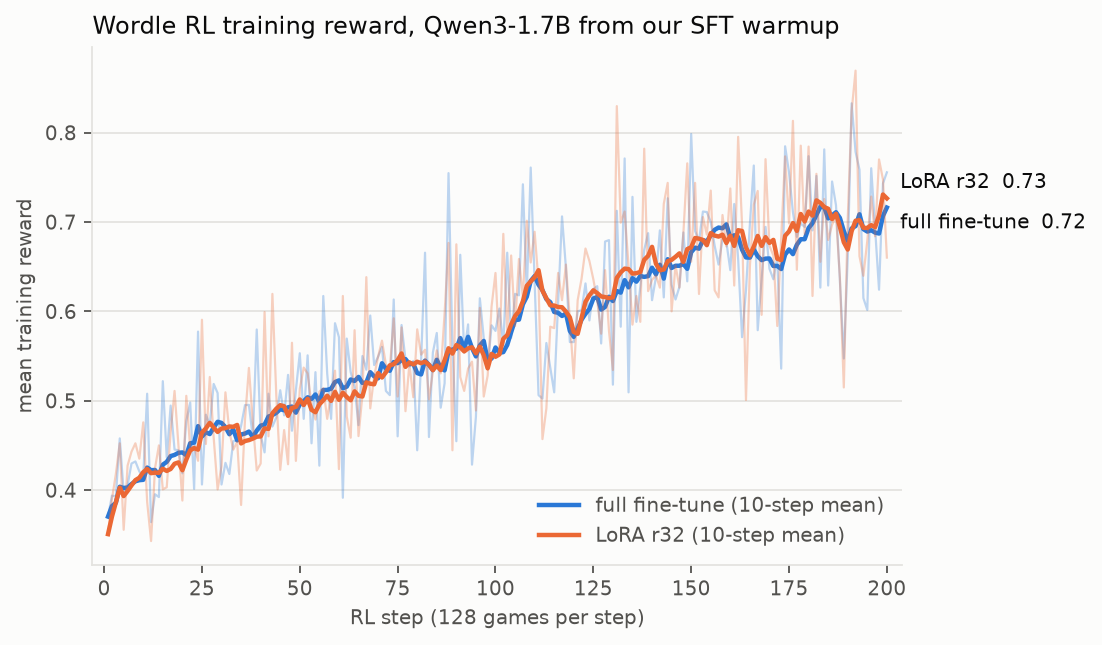
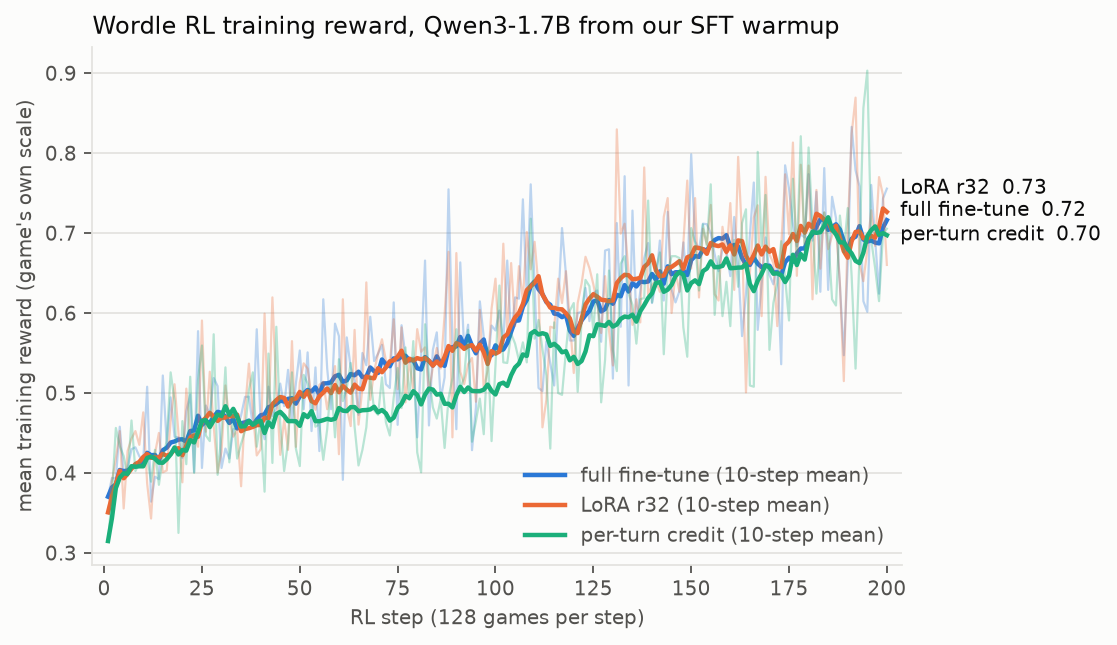
Run 2 results: per-turn credit fixes cut-offs and invalid moves; win rate unchanged
Held-out (thinking removed): 41.5% vs 40.5% baseline; cut-off turns 15% -> 1.4%,
games lost to invalid moves 88 -> 39, but games using all 6 guesses 31 -> 78 and
clue consistency 54% -> 47%. Report, page, plots and README updated.

diff --git a/notes/experiment.html b/notes/experiment.html
@@ -21,6 +21,7 @@
   --bad: #b4442e;
   --s1: #2a78d6;
   --s2: #eb6834;
+  --s3: #1baf7a;
   --chip-done: #e2eee0;
   --chip-run: #f8edc7;
   --chip-wait: #eaecea;
@@ -34,14 +35,14 @@
   :root:not([data-theme="light"]) {
     --paper: #121314; --panel: #1b1d1f; --ink: #eceeee; --ink-2: #b6bbbe; --ink-3: #8f959a; --rule: #2f3235;
     --accent: #84c977; --tile-g: #538d4e; --tile-y: #b59f3b; --tile-x: #3a3a3c; --tile-ink: #ffffff; --tile-line: #3f4245;
-    --bad: #e2806a; --s1: #3987e5; --s2: #d95926; --chip-done: #1f3320; --chip-run: #3a3117; --chip-wait: #26292b;
+    --bad: #e2806a; --s1: #3987e5; --s2: #d95926; --s3: #199e70; --chip-done: #1f3320; --chip-run: #3a3117; --chip-wait: #26292b;
     color-scheme: dark;
   }
 }
 :root[data-theme="dark"] {
   --paper: #121314; --panel: #1b1d1f; --ink: #eceeee; --ink-2: #b6bbbe; --ink-3: #8f959a; --rule: #2f3235;
   --accent: #84c977; --tile-g: #538d4e; --tile-y: #b59f3b; --tile-x: #3a3a3c; --tile-ink: #ffffff; --tile-line: #3f4245;
-  --bad: #e2806a; --s1: #3987e5; --s2: #d95926; --chip-done: #1f3320; --chip-run: #3a3117; --chip-wait: #26292b;
+  --bad: #e2806a; --s1: #3987e5; --s2: #d95926; --s3: #199e70; --chip-done: #1f3320; --chip-run: #3a3117; --chip-wait: #26292b;
   color-scheme: dark;
 }
 
@@ -329,6 +330,8 @@ footer { padding-top: 24px; border-top: 1px solid var(--rule); }
         </table>
       </div>
       <p class="note">With the thinking stripped, a turn whose thought runs past 1,024 tokens yields no move at all. That now shows up as a format error instead of a leaked repeat, and it is the RL models' main remaining failure (about 1 turn in 5).</p>
+      <h3>Run 2: per-turn credit</h3>
+      <p class="prose">A new <code>wordle-turns</code> env scores every turn: information gain, penalties for rejected moves, cut-off turns, thinking past 768 tokens and clue violations, and a win reward scaled by speed. A small prime-rl patch (<code>turn_grpo</code>) gives each turn's tokens their own advantage. It fixed what it targeted: cut-off turns fell from 15% to 1.4%, and games lost to invalid moves from 88 to 39 of 200. The held-out win rate did not move (41.5% vs 40.5%), because the rescued games now run out of guesses. Clue consistency fell from 54% to 47%: the information-gain bonus pays for exploratory guesses that can't be the answer. The next run lowers that bonus, strengthens the clue-violation penalty and adds a clue summary to each turn.</p>
       <h3>Held-out words vs training words</h3>
       <p class="prose">The same example eval on 20 training games, 10 tries each. If the RL models had memorized their words, they would score higher here. They don't, so the gains carry over to new words.</p>
       <div class="scroll">
@@ -416,7 +419,7 @@ make report                           <span class="c"># results/results.md + plo
 </div>
 
 <!--DATA-BEGIN-->
-<script type="application/json" id="data">{"updated":"2026-10-13 19:31 UTC","evals":[{"model":"Qwen3-1.7B (base)","run":"wordle-eval-base","games":200,"win_rate":0.0,"avg_reward":0.1745,"avg_turns":3.33,"turns_to_solve":null,"guesses_to_solve":null,"format_error_rate":0.6186186186186187,"truncated_call_rate":0.6171171171171171,"invalid_end_rate":1.0,"ci":[0.0,0.0],"parsed":{"win_rate":0.0,"avg_reward":0.20600000000000002,"avg_turns":3.72,"guesses_to_solve":null,"format_error_rate":0.4771505376344086,"truncated_call_rate":0.47043010752688175,"ci":[0.0,0.0]}},{"model":"+ SFT warmup","run":"wordle-eval-sft","games":200,"win_rate":0.025,"avg_reward":0.3,"avg_turns":5.11,"turns_to_solve":6.2,"guesses_to_solve":4.2,"format_error_rate":0.13894324853228962,"truncated_call_rate":0.06555772994129158,"invalid_end_rate":0.925,"ci":[0.0,0.06],"parsed":{"win_rate":0.125,"avg_reward":0.402,"avg_turns":5.31,"guesses_to_solve":4.08,"format_error_rate":0.3116760828625235,"truncated_call_rate":0.1318267419962335,"ci":[0.075,0.18]}},{"model":"+ SFT + RL (full)","run":"wordle-eval-rl","games":200,"win_rate":0.15,"avg_reward":0.428,"avg_turns":5.825,"turns_to_solve":6.333333333333333,"guesses_to_solve":4.466666666666667,"format_error_rate":0.0944206008583691,"truncated_call_rate":0.06266094420600858,"invalid_end_rate":0.76,"ci":[0.095,0.2],"parsed":{"win_rate":0.405,"avg_reward":0.662,"avg_turns":5.775,"guesses_to_solve":4.271604938271605,"format_error_rate":0.22510822510822512,"truncated_call_rate":0.1523809523809524,"ci":[0.28,0.53]},"seen":{"win_rate":0.155,"avg_reward":0.46149999999999997,"avg_turns":5.96,"guesses_to_solve":4.387096774193548,"format_error_rate":0.11577181208053691,"truncated_call_rate":0.09144295302013423,"ci":[0.09,0.225]}},{"model":"+ SFT + RL (LoRA r32)","run":"wordle-eval-lora","games":200,"win_rate":0.21,"avg_reward":0.465,"avg_turns":6.02,"turns_to_solve":6.119047619047619,"guesses_to_solve":4.380952380952381,"format_error_rate":0.11046511627906977,"truncated_call_rate":0.08305647840531562,"invalid_end_rate":0.645,"ci":[0.115,0.31],"parsed":{"win_rate":0.425,"avg_reward":0.6475,"avg_turns":5.525,"guesses_to_solve":4.1647058823529415,"format_error_rate":0.22805429864253393,"truncated_call_rate":0.16561085972850678,"ci":[0.3,0.55]},"seen":{"win_rate":0.11,"avg_reward":0.40850000000000003,"avg_turns":5.97,"guesses_to_solve":4.5,"format_error_rate":0.12144053601340034,"truncated_call_rate":0.09380234505862646,"ci":[0.06,0.175]}}],"rl":{"full":{"curve":[[1,0.3703],[2,0.3937],[3,0.393],[4,0.4578],[5,0.3969],[6,0.4055],[7,0.4297],[8,0.432],[9,0.4208],[10,0.4148],[11,0.5078],[12,0.3641],[13,0.3953],[14,0.3922],[15,0.5219],[16,0.4367],[17,0.4945],[18,0.4453],[19,0.4445],[20,0.4188],[21,0.4773],[22,0.4979],[23,0.4014],[24,0.5773],[25,0.4062],[26,0.4844],[27,0.4734],[28,0.5188],[29,0.5086],[30,0.4062],[31,0.4305],[32,0.418],[33,0.4547],[34,0.4555],[35,0.4719],[36,0.4951],[37,0.4953],[38,0.4586],[39,0.5797],[40,0.4618],[41,0.4422],[42,0.5078],[43,0.4711],[44,0.4813],[45,0.5117],[46,0.4836],[47,0.5289],[48,0.4664],[49,0.5117],[50,0.5531],[51,0.4797],[52,0.5508],[53,0.4523],[54,0.5319],[55,0.4273],[56,0.6172],[57,0.5305],[58,0.4797],[59,0.5867],[60,0.5711],[61,0.3914],[62,0.5695],[63,0.532],[64,0.5156],[65,0.4727],[66,0.55],[67,0.5347],[68,0.5953],[69,0.5398],[70,0.5492],[71,0.5602],[72,0.5109],[73,0.5062],[74,0.6133],[75,0.4602],[76,0.5847],[77,0.5461],[78,0.5383],[79,0.5445],[80,0.4445],[81,0.5453],[82,0.6656],[83,0.4594],[84,0.5539],[85,0.5758],[86,0.4922],[87,0.5195],[88,0.7547],[89,0.5617],[90,0.4547],[91,0.6633],[92,0.5539],[93,0.5854],[94,0.4285],[95,0.482],[96,0.6146],[97,0.5701],[98,0.5352],[99,0.5844],[100,0.5781],[101,0.6031],[102,0.5625],[103,0.6656],[104,0.5703],[105,0.6195],[106,0.618],[107,0.7422],[108,0.6203],[109,0.7609],[110,0.632],[111,0.5062],[112,0.5023],[113,0.5646],[114,0.5367],[115,0.5094],[116,0.6094],[117,0.7063],[118,0.6484],[119,0.5656],[120,0.5656],[121,0.6],[122,0.6014],[123,0.6312],[124,0.5898],[125,0.625],[126,0.6281],[127,0.5641],[128,0.6781],[129,0.6797],[130,0.518],[131,0.7125],[132,0.5828],[133,0.7711],[134,0.5094],[135,0.7281],[136,0.5883],[137,0.6273],[138,0.6687],[139,0.6875],[140,0.6125],[141,0.6383],[142,0.6906],[143,0.6156],[144,0.7266],[145,0.6297],[146,0.6133],[147,0.6273],[148,0.6883],[149,0.6336],[150,0.7984],[151,0.6898],[152,0.6789],[153,0.7117],[154,0.7111],[155,0.7],[156,0.6734],[157,0.6523],[158,0.6805],[159,0.6773],[160,0.6461],[161,0.7201],[162,0.6587],[163,0.5711],[164,0.6236],[165,0.6977],[166,0.7632],[167,0.5789],[168,0.6361],[169,0.6945],[170,0.6477],[171,0.6359],[172,0.6602],[173,0.5359],[174,0.7847],[175,0.7556],[176,0.7109],[177,0.6833],[178,0.6984],[179,0.6944],[180,0.7736],[181,0.6906],[182,0.7516],[183,0.6266],[184,0.7812],[185,0.6289],[186,0.7453],[187,0.7188],[188,0.6344],[189,0.5472],[190,0.6609],[191,0.8328],[192,0.7785],[193,0.7586],[194,0.6148],[195,0.6016],[196,0.7602],[197,0.6922],[198,0.6242],[199,0.7431],[200,0.7556]],"steps":200,"hours":3.64},"lora":{"curve":[[1,0.3507],[2,0.3898],[3,0.418],[4,0.4523],[5,0.3556],[6,0.4273],[7,0.443],[8,0.4523],[9,0.4352],[10,0.4758],[11,0.3867],[12,0.343],[13,0.4243],[14,0.45],[15,0.4008],[16,0.4031],[17,0.4648],[18,0.5109],[19,0.45],[20,0.3883],[21,0.5055],[22,0.4469],[23,0.4492],[24,0.4328],[25,0.5906],[26,0.4516],[27,0.5266],[28,0.4586],[29,0.4008],[30,0.4266],[31,0.5094],[32,0.4656],[33,0.4453],[34,0.4539],[35,0.3833],[36,0.4789],[37,0.5367],[38,0.4758],[39,0.4219],[40,0.4297],[41,0.5992],[42,0.4602],[43,0.6195],[44,0.5055],[45,0.4227],[46,0.4672],[47,0.4289],[48,0.5648],[49,0.4326],[50,0.5133],[51,0.5371],[52,0.5305],[53,0.4953],[54,0.4789],[55,0.5102],[56,0.5141],[57,0.4797],[58,0.507],[59,0.5336],[60,0.4234],[61,0.6172],[62,0.482],[63,0.4586],[64,0.5789],[65,0.4604],[66,0.5062],[67,0.6383],[68,0.4914],[69,0.5273],[70,0.5492],[71,0.5672],[72,0.5406],[73,0.5359],[74,0.5922],[75,0.5047],[76,0.582],[77,0.4883],[78,0.5414],[79,0.5039],[80,0.5799],[81,0.5516],[82,0.557],[83,0.5016],[84,0.532],[85,0.5563],[86,0.5306],[87,0.5977],[88,0.6766],[89,0.4445],[90,0.675],[91,0.5266],[92,0.5109],[93,0.5359],[94,0.5437],[95,0.4891],[96,0.6039],[97,0.5047],[98,0.5281],[99,0.6056],[100,0.643],[101,0.5531],[102,0.6867],[103,0.5758],[104,0.6625],[105,0.5836],[106,0.6586],[107,0.6156],[108,0.7014],[109,0.6547],[110,0.6891],[111,0.6328],[112,0.457],[113,0.4914],[114,0.5828],[115,0.5813],[116,0.643],[117,0.6125],[118,0.6523],[119,0.5906],[120,0.525],[121,0.6125],[122,0.6367],[123,0.6703],[124,0.6562],[125,0.6359],[126,0.6117],[127,0.575],[128,0.6461],[129,0.5781],[130,0.5344],[131,0.8297],[132,0.6992],[133,0.7117],[134,0.6508],[135,0.5852],[136,0.6172],[137,0.5883],[138,0.782],[139,0.6227],[140,0.6352],[141,0.6403],[142,0.6266],[143,0.7203],[144,0.7438],[145,0.6],[146,0.6516],[147,0.6266],[148,0.6868],[149,0.7656],[150,0.6555],[151,0.7438],[152,0.6194],[153,0.7055],[154,0.6859],[155,0.7352],[156,0.6236],[157,0.6156],[158,0.7078],[159,0.6727],[160,0.7375],[161,0.6289],[162,0.7953],[163,0.6969],[164,0.5008],[165,0.65],[166,0.7194],[167,0.7347],[168,0.5961],[169,0.7703],[170,0.6734],[171,0.6625],[172,0.5836],[173,0.6826],[174,0.7734],[175,0.6984],[176,0.8132],[177,0.6465],[178,0.7854],[179,0.6867],[180,0.7844],[181,0.6172],[182,0.7539],[183,0.6555],[184,0.7257],[185,0.6799],[186,0.6969],[187,0.707],[188,0.6375],[189,0.5148],[190,0.7031],[191,0.8242],[192,0.8694],[193,0.6617],[194,0.6398],[195,0.6789],[196,0.7285],[197,0.684],[198,0.77],[199,0.7477],[200,0.6602]],"steps":200,"hours":4.7}},"words":{"eval":["brass","brown","cough","death","floor","grain","horse","jewel","light","limit","paper","print","rough","smile","sound","spade","sugar","twist"],"train":["angle","apple","awake","basin","berry","birth","blade","blood","board","brain","brake","bread","brick","brush","burst","cause","chain","chalk","cheap","chest","chief","clean","clock","cloth","cloud","cover","crack","crime","cruel","crush","curve","dirty","doubt","drain","dress","drink","earth","error","event","field","fight","flame","force","frame","front","fruit","glass","glove","grass","group","guide","heart","house","judge","knife","laugh","level","linen","match","metal","money","month","mouth","music","nerve","night","noise","north","offer","order","owner","paint","paste","peace","place","plane","plant","plate","point","power","price","prose","quick","range","right","river","round","scale","screw","sense","shade","shake","shame","sheep","shelf","shirt","shock","skirt","sleep","slope","smash","smell","smoke","snake","south","space","spoon","stage","stamp","start","steam","steel","stick","stiff","stone","store","story","sweet","table","taste","thick","thing","thumb","tight","tooth","touch","trade","train","trick","value","verse","voice","waste","watch","water","wheel","woman","wound"],"excluded_seeds":675,"train_seeds":5325}}</script>
+<script type="application/json" id="data">{"updated":"2026-10-14 05:15 UTC","evals":[{"model":"Qwen3-1.7B (base)","run":"wordle-eval-base","games":200,"win_rate":0.0,"avg_reward":0.1745,"avg_turns":3.33,"turns_to_solve":null,"guesses_to_solve":null,"format_error_rate":0.6186186186186187,"truncated_call_rate":0.6171171171171171,"invalid_end_rate":1.0,"ci":[0.0,0.0],"parsed":{"win_rate":0.0,"avg_reward":0.20600000000000002,"avg_turns":3.72,"guesses_to_solve":null,"format_error_rate":0.4771505376344086,"truncated_call_rate":0.47043010752688175,"ci":[0.0,0.0]}},{"model":"+ SFT warmup","run":"wordle-eval-sft","games":200,"win_rate":0.025,"avg_reward":0.3,"avg_turns":5.11,"turns_to_solve":6.2,"guesses_to_solve":4.2,"format_error_rate":0.13894324853228962,"truncated_call_rate":0.06555772994129158,"invalid_end_rate":0.925,"ci":[0.0,0.06],"parsed":{"win_rate":0.125,"avg_reward":0.402,"avg_turns":5.31,"guesses_to_solve":4.08,"format_error_rate":0.3116760828625235,"truncated_call_rate":0.1318267419962335,"ci":[0.075,0.18]}},{"model":"+ SFT + RL (full)","run":"wordle-eval-rl","games":200,"win_rate":0.15,"avg_reward":0.428,"avg_turns":5.825,"turns_to_solve":6.333333333333333,"guesses_to_solve":4.466666666666667,"format_error_rate":0.0944206008583691,"truncated_call_rate":0.06266094420600858,"invalid_end_rate":0.76,"ci":[0.095,0.2],"parsed":{"win_rate":0.405,"avg_reward":0.662,"avg_turns":5.775,"guesses_to_solve":4.271604938271605,"format_error_rate":0.22510822510822512,"truncated_call_rate":0.1523809523809524,"ci":[0.28,0.53]},"seen":{"win_rate":0.155,"avg_reward":0.46149999999999997,"avg_turns":5.96,"guesses_to_solve":4.387096774193548,"format_error_rate":0.11577181208053691,"truncated_call_rate":0.09144295302013423,"ci":[0.09,0.225]}},{"model":"+ SFT + RL (LoRA r32)","run":"wordle-eval-lora","games":200,"win_rate":0.21,"avg_reward":0.465,"avg_turns":6.02,"turns_to_solve":6.119047619047619,"guesses_to_solve":4.380952380952381,"format_error_rate":0.11046511627906977,"truncated_call_rate":0.08305647840531562,"invalid_end_rate":0.645,"ci":[0.115,0.31],"parsed":{"win_rate":0.425,"avg_reward":0.6475,"avg_turns":5.525,"guesses_to_solve":4.1647058823529415,"format_error_rate":0.22805429864253393,"truncated_call_rate":0.16561085972850678,"ci":[0.3,0.55]},"seen":{"win_rate":0.11,"avg_reward":0.40850000000000003,"avg_turns":5.97,"guesses_to_solve":4.5,"format_error_rate":0.12144053601340034,"truncated_call_rate":0.09380234505862646,"ci":[0.06,0.175]}},{"model":"+ SFT + RL (per-turn credit)","run":"wordle-eval-turns","games":200,"win_rate":0.17,"avg_reward":0.445,"avg_turns":6.955,"turns_to_solve":6.676470588235294,"guesses_to_solve":4.323529411764706,"format_error_rate":0.024442846872753415,"truncated_call_rate":0.0014378145219266715,"invalid_end_rate":0.51,"ci":[0.105,0.235],"parsed":{"win_rate":0.415,"avg_reward":0.6445000000000001,"avg_turns":5.88,"guesses_to_solve":4.530120481927711,"format_error_rate":0.09098639455782313,"truncated_call_rate":0.013605442176870748,"ci":[0.275,0.555]}}],"rl":{"full":{"curve":[[1,0.3703],[2,0.3937],[3,0.393],[4,0.4578],[5,0.3969],[6,0.4055],[7,0.4297],[8,0.432],[9,0.4208],[10,0.4148],[11,0.5078],[12,0.3641],[13,0.3953],[14,0.3922],[15,0.5219],[16,0.4367],[17,0.4945],[18,0.4453],[19,0.4445],[20,0.4188],[21,0.4773],[22,0.4979],[23,0.4014],[24,0.5773],[25,0.4062],[26,0.4844],[27,0.4734],[28,0.5188],[29,0.5086],[30,0.4062],[31,0.4305],[32,0.418],[33,0.4547],[34,0.4555],[35,0.4719],[36,0.4951],[37,0.4953],[38,0.4586],[39,0.5797],[40,0.4618],[41,0.4422],[42,0.5078],[43,0.4711],[44,0.4813],[45,0.5117],[46,0.4836],[47,0.5289],[48,0.4664],[49,0.5117],[50,0.5531],[51,0.4797],[52,0.5508],[53,0.4523],[54,0.5319],[55,0.4273],[56,0.6172],[57,0.5305],[58,0.4797],[59,0.5867],[60,0.5711],[61,0.3914],[62,0.5695],[63,0.532],[64,0.5156],[65,0.4727],[66,0.55],[67,0.5347],[68,0.5953],[69,0.5398],[70,0.5492],[71,0.5602],[72,0.5109],[73,0.5062],[74,0.6133],[75,0.4602],[76,0.5847],[77,0.5461],[78,0.5383],[79,0.5445],[80,0.4445],[81,0.5453],[82,0.6656],[83,0.4594],[84,0.5539],[85,0.5758],[86,0.4922],[87,0.5195],[88,0.7547],[89,0.5617],[90,0.4547],[91,0.6633],[92,0.5539],[93,0.5854],[94,0.4285],[95,0.482],[96,0.6146],[97,0.5701],[98,0.5352],[99,0.5844],[100,0.5781],[101,0.6031],[102,0.5625],[103,0.6656],[104,0.5703],[105,0.6195],[106,0.618],[107,0.7422],[108,0.6203],[109,0.7609],[110,0.632],[111,0.5062],[112,0.5023],[113,0.5646],[114,0.5367],[115,0.5094],[116,0.6094],[117,0.7063],[118,0.6484],[119,0.5656],[120,0.5656],[121,0.6],[122,0.6014],[123,0.6312],[124,0.5898],[125,0.625],[126,0.6281],[127,0.5641],[128,0.6781],[129,0.6797],[130,0.518],[131,0.7125],[132,0.5828],[133,0.7711],[134,0.5094],[135,0.7281],[136,0.5883],[137,0.6273],[138,0.6687],[139,0.6875],[140,0.6125],[141,0.6383],[142,0.6906],[143,0.6156],[144,0.7266],[145,0.6297],[146,0.6133],[147,0.6273],[148,0.6883],[149,0.6336],[150,0.7984],[151,0.6898],[152,0.6789],[153,0.7117],[154,0.7111],[155,0.7],[156,0.6734],[157,0.6523],[158,0.6805],[159,0.6773],[160,0.6461],[161,0.7201],[162,0.6587],[163,0.5711],[164,0.6236],[165,0.6977],[166,0.7632],[167,0.5789],[168,0.6361],[169,0.6945],[170,0.6477],[171,0.6359],[172,0.6602],[173,0.5359],[174,0.7847],[175,0.7556],[176,0.7109],[177,0.6833],[178,0.6984],[179,0.6944],[180,0.7736],[181,0.6906],[182,0.7516],[183,0.6266],[184,0.7812],[185,0.6289],[186,0.7453],[187,0.7188],[188,0.6344],[189,0.5472],[190,0.6609],[191,0.8328],[192,0.7785],[193,0.7586],[194,0.6148],[195,0.6016],[196,0.7602],[197,0.6922],[198,0.6242],[199,0.7431],[200,0.7556]],"steps":200,"hours":3.64},"lora":{"curve":[[1,0.3507],[2,0.3898],[3,0.418],[4,0.4523],[5,0.3556],[6,0.4273],[7,0.443],[8,0.4523],[9,0.4352],[10,0.4758],[11,0.3867],[12,0.343],[13,0.4243],[14,0.45],[15,0.4008],[16,0.4031],[17,0.4648],[18,0.5109],[19,0.45],[20,0.3883],[21,0.5055],[22,0.4469],[23,0.4492],[24,0.4328],[25,0.5906],[26,0.4516],[27,0.5266],[28,0.4586],[29,0.4008],[30,0.4266],[31,0.5094],[32,0.4656],[33,0.4453],[34,0.4539],[35,0.3833],[36,0.4789],[37,0.5367],[38,0.4758],[39,0.4219],[40,0.4297],[41,0.5992],[42,0.4602],[43,0.6195],[44,0.5055],[45,0.4227],[46,0.4672],[47,0.4289],[48,0.5648],[49,0.4326],[50,0.5133],[51,0.5371],[52,0.5305],[53,0.4953],[54,0.4789],[55,0.5102],[56,0.5141],[57,0.4797],[58,0.507],[59,0.5336],[60,0.4234],[61,0.6172],[62,0.482],[63,0.4586],[64,0.5789],[65,0.4604],[66,0.5062],[67,0.6383],[68,0.4914],[69,0.5273],[70,0.5492],[71,0.5672],[72,0.5406],[73,0.5359],[74,0.5922],[75,0.5047],[76,0.582],[77,0.4883],[78,0.5414],[79,0.5039],[80,0.5799],[81,0.5516],[82,0.557],[83,0.5016],[84,0.532],[85,0.5563],[86,0.5306],[87,0.5977],[88,0.6766],[89,0.4445],[90,0.675],[91,0.5266],[92,0.5109],[93,0.5359],[94,0.5437],[95,0.4891],[96,0.6039],[97,0.5047],[98,0.5281],[99,0.6056],[100,0.643],[101,0.5531],[102,0.6867],[103,0.5758],[104,0.6625],[105,0.5836],[106,0.6586],[107,0.6156],[108,0.7014],[109,0.6547],[110,0.6891],[111,0.6328],[112,0.457],[113,0.4914],[114,0.5828],[115,0.5813],[116,0.643],[117,0.6125],[118,0.6523],[119,0.5906],[120,0.525],[121,0.6125],[122,0.6367],[123,0.6703],[124,0.6562],[125,0.6359],[126,0.6117],[127,0.575],[128,0.6461],[129,0.5781],[130,0.5344],[131,0.8297],[132,0.6992],[133,0.7117],[134,0.6508],[135,0.5852],[136,0.6172],[137,0.5883],[138,0.782],[139,0.6227],[140,0.6352],[141,0.6403],[142,0.6266],[143,0.7203],[144,0.7438],[145,0.6],[146,0.6516],[147,0.6266],[148,0.6868],[149,0.7656],[150,0.6555],[151,0.7438],[152,0.6194],[153,0.7055],[154,0.6859],[155,0.7352],[156,0.6236],[157,0.6156],[158,0.7078],[159,0.6727],[160,0.7375],[161,0.6289],[162,0.7953],[163,0.6969],[164,0.5008],[165,0.65],[166,0.7194],[167,0.7347],[168,0.5961],[169,0.7703],[170,0.6734],[171,0.6625],[172,0.5836],[173,0.6826],[174,0.7734],[175,0.6984],[176,0.8132],[177,0.6465],[178,0.7854],[179,0.6867],[180,0.7844],[181,0.6172],[182,0.7539],[183,0.6555],[184,0.7257],[185,0.6799],[186,0.6969],[187,0.707],[188,0.6375],[189,0.5148],[190,0.7031],[191,0.8242],[192,0.8694],[193,0.6617],[194,0.6398],[195,0.6789],[196,0.7285],[197,0.684],[198,0.77],[199,0.7477],[200,0.6602]],"steps":200,"hours":4.7},"turns":{"curve":[[1,0.3148],[2,0.3719],[3,0.4562],[4,0.4336],[5,0.4211],[6,0.3961],[7,0.4656],[8,0.4023],[9,0.4133],[10,0.4078],[11,0.4195],[12,0.3891],[13,0.4289],[14,0.3852],[15,0.4195],[16,0.4398],[17,0.5258],[18,0.4898],[19,0.325],[20,0.4648],[21,0.4109],[22,0.5203],[23,0.4],[24,0.5164],[25,0.5594],[26,0.4469],[27,0.4398],[28,0.5734],[29,0.3977],[30,0.4484],[31,0.532],[32,0.4133],[33,0.4742],[34,0.418],[35,0.4364],[36,0.4523],[37,0.5039],[38,0.5258],[39,0.4328],[40,0.4656],[41,0.3766],[42,0.5493],[43,0.4125],[44,0.5828],[45,0.4625],[46,0.4023],[47,0.4383],[48,0.5258],[49,0.4305],[50,0.4086],[51,0.5227],[52,0.5117],[53,0.4875],[54,0.4578],[55,0.4609],[56,0.4164],[57,0.4547],[58,0.5133],[59,0.4445],[60,0.5422],[61,0.4898],[62,0.5062],[63,0.5375],[64,0.4578],[65,0.4094],[66,0.4289],[67,0.457],[68,0.5203],[69,0.4781],[70,0.4727],[71,0.5195],[72,0.4633],[73,0.4469],[74,0.4945],[75,0.5312],[76,0.4813],[77,0.557],[78,0.4914],[79,0.5648],[80,0.4258],[81,0.4008],[82,0.5859],[83,0.5219],[84,0.482],[85,0.468],[86,0.4922],[87,0.4313],[88,0.493],[89,0.5188],[90,0.5797],[91,0.5047],[92,0.5203],[93,0.5789],[94,0.4391],[95,0.4648],[96,0.493],[97,0.4484],[98,0.557],[99,0.4398],[100,0.5352],[101,0.6344],[102,0.5383],[103,0.5375],[104,0.5742],[105,0.5617],[106,0.5406],[107,0.5633],[108,0.5383],[109,0.718],[110,0.568],[111,0.5914],[112,0.5547],[113,0.5219],[114,0.4305],[115,0.5883],[116,0.5],[117,0.4977],[118,0.5523],[119,0.6031],[120,0.6125],[121,0.5016],[122,0.5914],[123,0.6414],[124,0.6336],[125,0.5773],[126,0.6484],[127,0.4883],[128,0.5414],[129,0.6531],[130,0.5539],[131,0.5273],[132,0.6617],[133,0.6711],[134,0.6242],[135,0.6102],[136,0.5617],[137,0.6172],[138,0.6188],[139,0.7406],[140,0.6133],[141,0.6547],[142,0.6758],[143,0.5484],[144,0.6516],[145,0.6711],[146,0.6711],[147,0.6687],[148,0.582],[149,0.5453],[150,0.7063],[151,0.6883],[152,0.6281],[153,0.7109],[154,0.6844],[155,0.7609],[156,0.5977],[157,0.6711],[158,0.5961],[159,0.6391],[160,0.5836],[161,0.6914],[162,0.6328],[163,0.7125],[164,0.7297],[165,0.5094],[166,0.5078],[167,0.8016],[168,0.6836],[169,0.7477],[170,0.5539],[171,0.6125],[172,0.6375],[173,0.6898],[174,0.6438],[175,0.5906],[176,0.768],[177,0.6727],[178,0.8211],[179,0.6781],[180,0.807],[181,0.707],[182,0.6242],[183,0.6984],[184,0.7258],[185,0.6953],[186,0.6172],[187,0.6094],[188,0.7219],[189,0.6758],[190,0.7312],[191,0.6461],[192,0.5305],[193,0.6711],[194,0.8562],[195,0.9031],[196,0.6914],[197,0.6562],[198,0.6148],[199,0.6984],[200,0.7055]],"steps":200,"hours":2.39}},"words":{"eval":["brass","brown","cough","death","floor","grain","horse","jewel","light","limit","paper","print","rough","smile","sound","spade","sugar","twist"],"train":["angle","apple","awake","basin","berry","birth","blade","blood","board","brain","brake","bread","brick","brush","burst","cause","chain","chalk","cheap","chest","chief","clean","clock","cloth","cloud","cover","crack","crime","cruel","crush","curve","dirty","doubt","drain","dress","drink","earth","error","event","field","fight","flame","force","frame","front","fruit","glass","glove","grass","group","guide","heart","house","judge","knife","laugh","level","linen","match","metal","money","month","mouth","music","nerve","night","noise","north","offer","order","owner","paint","paste","peace","place","plane","plant","plate","point","power","price","prose","quick","range","right","river","round","scale","screw","sense","shade","shake","shame","sheep","shelf","shirt","shock","skirt","sleep","slope","smash","smell","smoke","snake","south","space","spoon","stage","stamp","start","steam","steel","stick","stiff","stone","store","story","sweet","table","taste","thick","thing","thumb","tight","tooth","touch","trade","train","trick","value","verse","voice","waste","watch","water","wheel","woman","wound"],"excluded_seeds":675,"train_seeds":5325}}</script>
 <!--DATA-END-->
 
 <script>
@@ -439,7 +442,7 @@ make report                           <span class="c"># results/results.md + plo
   var evals = D.evals || [];
   var byRun = {}; evals.forEach(function (e) { byRun[e.run] = e; });
   var rl = D.rl || {};
-  var full = (rl.full && rl.full.curve) || [], lora = (rl.lora && rl.lora.curve) || [];
+  var full = (rl.full && rl.full.curve) || [], lora = (rl.lora && rl.lora.curve) || [], turns = (rl.turns && rl.turns.curve) || [];
   var steps = (rl.full && rl.full.steps) || 200;
   var has = function (run) { return byRun[run] && byRun[run].games > 0; };
 
@@ -478,8 +481,8 @@ make report                           <span class="c"># results/results.md + plo
   }).join("");
 
   // Results table
-  var labels = {"wordle-eval-base": "Qwen3-1.7B (base)", "wordle-eval-sft": "+ SFT warmup", "wordle-eval-rl": "+ SFT + RL (full fine-tune)", "wordle-eval-lora": "+ SFT + RL (LoRA r32)"};
-  var stateOf = {"wordle-eval-base": st.base, "wordle-eval-sft": st.sft, "wordle-eval-rl": st.rl, "wordle-eval-lora": st.lora};
+  var labels = {"wordle-eval-base": "Qwen3-1.7B (base)", "wordle-eval-sft": "+ SFT warmup", "wordle-eval-rl": "+ SFT + RL (full fine-tune)", "wordle-eval-lora": "+ SFT + RL (LoRA r32)", "wordle-eval-turns": "+ SFT + RL (per-turn credit, run 2)"};
+  var stateOf = {"wordle-eval-base": st.base, "wordle-eval-sft": st.sft, "wordle-eval-rl": st.rl, "wordle-eval-lora": st.lora, "wordle-eval-turns": has("wordle-eval-turns") ? "done" : "wait"};
   $("results-body").innerHTML = Object.keys(labels).map(function (run) {
     var e = byRun[run];
     if (!e || !e.games) {
@@ -522,11 +525,11 @@ make report                           <span class="c"># results/results.md + plo
   (function chart() {
     var svg = $("chart-svg"), tip = $("tip"), box = $("chart");
     var Wd = 720, Ht = 300, m = {l: 44, r: 128, t: 12, b: 34};
-    var series = [{key: "full", name: "Full fine-tune", color: "var(--s1)", pts: full}, {key: "lora", name: "LoRA r32", color: "var(--s2)", pts: lora}];
+    var series = [{key: "full", name: "Full fine-tune", color: "var(--s1)", pts: full}, {key: "lora", name: "LoRA r32", color: "var(--s2)", pts: lora}, {key: "turns", name: "Per-turn credit", color: "var(--s3)", pts: turns}];
     $("chart-legend").innerHTML = series.map(function (s) {
       return '<span><i style="background:' + s.color + '"></i>' + s.name + (s.pts.length ? "" : " (queued)") + "</span>";
     }).join("");
-    var all = full.concat(lora).map(function (p) { return p[1]; });
+    var all = full.concat(lora, turns).map(function (p) { return p[1]; });
     if (!all.length) { svg.innerHTML = '<text class="axis" x="360" y="150" text-anchor="middle">Training curve appears once RL logs its first step.</text>'; return; }
     var lo = Math.floor((Math.min.apply(null, all) - 0.02) * 20) / 20, hi = Math.ceil((Math.max.apply(null, all) + 0.02) * 20) / 20;
     var X = function (s) { return m.l + (s / steps) * (Wd - m.l - m.r); };

diff --git a/scripts/make_report.py b/scripts/make_report.py
@@ -35,6 +35,7 @@ MODELS = [  # (label, eval run, training runs that produced it)
     ("+ SFT warmup", "wordle-eval-sft", ["wordle-sft"]),
     ("+ SFT + RL (full)", "wordle-eval-rl", ["wordle-sft", "wordle-rl"]),
     ("+ SFT + RL (LoRA r32)", "wordle-eval-lora", ["wordle-sft", "wordle-rl-lora"]),
+    ("+ SFT + RL (per-turn credit)", "wordle-eval-turns", ["wordle-sft", "wordle-rl-turns"]),
 ]
 SEEN = [  # diagnostic: the same eval on 20 training games (configs/wordle/eval_seen.toml)
     ("+ SFT + RL (full)", "wordle-eval-rl", "wordle-eval-rl-seen"),
@@ -43,12 +44,16 @@ SEEN = [  # diagnostic: the same eval on 20 training games (configs/wordle/eval_
 PARSED = {  # diagnostic: eval.toml with vLLM's qwen3 reasoning parser on the server
     "wordle-eval-base": "wordle-eval-base-parsed", "wordle-eval-sft": "wordle-eval-sft-parsed",
     "wordle-eval-rl": "wordle-eval-rl-parsed", "wordle-eval-lora": "wordle-eval-lora-parsed",
+    "wordle-eval-turns": "wordle-eval-turns-parsed",
 }
 TRAIN_KEY = re.compile(r"^train/agg/all/[^/]+/reward/mean$")
 
 # Reference palette, light mode (dataviz skill references/palette.md)
 SURFACE, INK, INK2, GRID = "#fcfcfb", "#0b0b0b", "#52514e", "#e4e3df"
-SERIES = {"wordle-rl": ("#2a78d6", "full fine-tune"), "wordle-rl-lora": ("#eb6834", "LoRA r32")}
+SERIES = {"wordle-rl": ("#2a78d6", "full fine-tune"), "wordle-rl-lora": ("#eb6834", "LoRA r32"),
+          "wordle-rl-turns": ("#1baf7a", "per-turn credit")}
+# Run 2 scores games differently (outcome = win x speed), so its curve uses the game's own reward.
+GAME_REWARD_KEY = re.compile(r"^train/agg/all/[^/]+/metrics/game_reward/mean$")
 
 
 def latest_artifacts() -> Path:
@@ -56,6 +61,12 @@ def latest_artifacts() -> Path:
     if not found:
         raise SystemExit("no artifacts/wordle-rl-wordle-* (run: make vast-pull)")
     return found[-1]
+
+
+def run_dir(art: Path, run: str) -> Path:
+    """The newest outputs/<run> across all instance artifact folders (runs span instances)."""
+    found = sorted((ROOT / "artifacts").glob(f"wordle-rl-wordle-*/outputs/{run}"), key=lambda p: p.stat().st_mtime)
+    return found[-1] if found else art / "outputs" / run
 
 
 def metrics_rows(run_dir: Path) -> list[dict]:
@@ -69,10 +80,12 @@ def run_hours(run_dir: Path) -> float | None:
 
 
 def train_curve(run_dir: Path) -> list[tuple[int, float]]:
+    rows = metrics_rows(run_dir)
+    key = GAME_REWARD_KEY if any(GAME_REWARD_KEY.match(k) for r in rows for k in r) else TRAIN_KEY
     pts = {}
-    for r in metrics_rows(run_dir):
+    for r in rows:
         for k, v in r.items():
-            if TRAIN_KEY.match(k) and isinstance(v, (int, float)):
+            if key.match(k) and isinstance(v, (int, float)):
                 pts[r["step"]] = v
     return sorted(pts.items())
 
@@ -111,7 +124,7 @@ def style(ax) -> None:
 
 
 def plot_train(art: Path) -> Path | None:
-    curves = {run: train_curve(art / "outputs" / run) for run in SERIES}
+    curves = {run: train_curve(run_dir(art, run)) for run in SERIES}
     curves = {k: v for k, v in curves.items() if v}
     if not curves:
         return None
@@ -126,14 +139,20 @@ def plot_train(art: Path) -> Path | None:
         ax.plot(steps, vals, color=color, linewidth=1, alpha=0.3)
         ax.plot(steps, smooth, color=color, linewidth=2, label=f"{label} (10-step mean)")
         ends[run] = (steps[-1], smooth[-1], label)
-    # End labels; spread them vertically when the lines finish close together.
+    # End labels, spread so none overlap: at least 12 points apart, lowest first.
     order = sorted(ends.values(), key=lambda e: e[1])
-    for k, (x_end, y_end, label) in enumerate(order):
-        dy = 0 if len(order) == 1 or abs(order[-1][1] - order[0][1]) > 0.03 else (-7 if k == 0 else 7)
-        ax.annotate(f"{label}  {y_end:.2f}", (x_end, y_end), xytext=(6, dy), textcoords="offset points",
+    to_px = ax.transData.transform
+    placed = []
+    for x_end, y_end, label in order:
+        y_px = to_px((x_end, y_end))[1]
+        if placed and y_px < placed[-1] + 12:
+            y_px = placed[-1] + 12
+        placed.append(y_px)
+        dy = y_px - to_px((x_end, y_end))[1]
+        ax.annotate(f"{label}  {y_end:.2f}", (x_end, y_end), xytext=(6, dy * 72 / fig.dpi), textcoords="offset points",
                     va="center", fontsize=9, color=INK)
     ax.set_xlabel("RL step (128 games per step)", color=INK2, fontsize=9)
-    ax.set_ylabel("mean training reward", color=INK2, fontsize=9)
+    ax.set_ylabel("mean training reward (game's own scale)", color=INK2, fontsize=9)
     ax.set_title("Wordle RL training reward, Qwen3-1.7B from our SFT warmup", color=INK, fontsize=11, loc="left")
     ax.legend(frameon=False, fontsize=9, labelcolor=INK2, loc="lower right")
     ax.margins(x=0.02)
@@ -167,12 +186,14 @@ def plot_win(rows: list[dict]) -> Path:
             ax.annotate(f"{rate:.1f}%", (xi, rate + hi), xytext=(0, 3),
                         textcoords="offset points", ha="center", fontsize=9, color=INK)
     if len(groups) > 1:
-        ax.legend(frameon=False, fontsize=8.5, labelcolor=INK2, loc="upper left")
+        ax.legend(frameon=False, fontsize=8.5, labelcolor=INK2, loc="upper right")
     x = range(len(rows))
     ax.axhline(60, color=INK2, linewidth=1, linestyle=(0, (4, 3)))
-    ax.annotate("prime-rl example, eval words not held out: ~60%", (len(rows) - 0.6, 60), xytext=(0, 4), annotation_clip=False,
-                textcoords="offset points", ha="right", fontsize=8.5, color=INK2)
-    ax.set_xticks(list(x), [r["model"] for r in rows], fontsize=9, color=INK)
+    ax.annotate("prime-rl example, eval words not held out: ~60%", (-0.45, 60), xytext=(0, 4), annotation_clip=False,
+                textcoords="offset points", ha="left", fontsize=8.5, color=INK2)
+    short = {"Qwen3-1.7B (base)": "Base", "+ SFT warmup": "SFT", "+ SFT + RL (full)": "SFT + RL\nfull",
+             "+ SFT + RL (LoRA r32)": "SFT + RL\nLoRA r32", "+ SFT + RL (per-turn credit)": "SFT + RL\nper-turn credit"}
+    ax.set_xticks(list(x), [short.get(r["model"], r["model"]) for r in rows], fontsize=9, color=INK)
     ax.set_ylabel("win rate on 200 held-out games (%)", color=INK2, fontsize=9)
     ax.set_ylim(0, max(100, max(tops) + 15))
     ax.set_title("Wordle win rate before vs after training (95% CI over the 20 held-out games)",
@@ -192,13 +213,13 @@ def main() -> None:
         inst = json.loads((ROOT / ".vast" / "instance.json").read_text())
     n_gpus = int(inst["gpu"].split("x")[0]) if inst else 2
 
-    hours = {run: run_hours(art / "outputs" / run) for run in ("wordle-sft", "wordle-rl", "wordle-rl-lora")}
+    hours = {run: run_hours(run_dir(art, run)) for run in ("wordle-sft", "wordle-rl", "wordle-rl-lora", "wordle-rl-turns")}
     rows = []
     for label, eval_run, train_runs in MODELS:
-        games = eval_games(art / "outputs" / eval_run) if (art / "outputs" / eval_run).exists() else []
+        games = eval_games(run_dir(art, eval_run)) if run_dir(art, eval_run).exists() else []
         s = summarize(games) if games else {}
         h = sum(hours.get(r) or 0 for r in train_runs)
-        pg = eval_games(art / "outputs" / PARSED[eval_run]) if (art / "outputs" / PARSED[eval_run]).exists() else []
+        pg = eval_games(run_dir(art, PARSED[eval_run])) if run_dir(art, PARSED[eval_run]).exists() else []
         parsed = {**summarize(pg), "ci": win_ci(pg)} if pg else None
         rows.append({"model": label, "eval_run": eval_run, "games": len(games), **s, "parsed": parsed,
                      "ci": win_ci(games) if games else None,
@@ -229,7 +250,7 @@ def main() -> None:
     seen_rows = []
     for label, held_run, seen_run in SEEN:
         held = next((r for r in rows if r["eval_run"] == held_run and r["games"]), None)
-        sg = eval_games(art / "outputs" / seen_run) if (art / "outputs" / seen_run).exists() else []
+        sg = eval_games(run_dir(art, seen_run)) if run_dir(art, seen_run).exists() else []
         if held and sg:
             ss = summarize(sg)
             seen_rows.append(f"| {label} | {pct(held['win_rate'])} | {pct(ss['win_rate'])} | {num(held['avg_reward'])} "

diff --git a/scripts/build_page.py b/scripts/build_page.py
@@ -14,7 +14,7 @@ from datetime import datetime, timezone
 from pathlib import Path
 
 sys.path.insert(0, str(Path(__file__).resolve().parent))
-from make_report import MODELS, PARSED, eval_games, run_hours, train_curve, win_ci  # noqa: E402
+from make_report import MODELS, PARSED, eval_games, run_dir, run_hours, train_curve, win_ci  # noqa: E402
 from summarize_eval import summarize  # noqa: E402
 
 ROOT = Path(__file__).resolve().parent.parent
@@ -33,7 +33,7 @@ def main() -> None:
     out = art / "outputs" if art else None
     evals = []
     for label, run, train_runs in MODELS:
-        games = eval_games(out / run) if out and (out / run).exists() else []
+        games = eval_games(run_dir(art, run)) if art and run_dir(art, run).exists() else []
         row = {"model": label, "run": run, "games": len(games)}
         if games:
             s = summarize(games)
@@ -45,7 +45,7 @@ def main() -> None:
                 if row[k] != row[k]:  # NaN -> null
                     row[k] = None
         for key, other in (("parsed", PARSED.get(run)), ("seen", run + "-seen")):
-            og = eval_games(out / other) if out and other and (out / other).exists() else []
+            og = eval_games(run_dir(art, other)) if art and other and run_dir(art, other).exists() else []
             if og:
                 o = summarize(og)
                 row[key] = {k: (None if o[k] != o[k] else o[k]) for k in
@@ -54,10 +54,11 @@ def main() -> None:
         evals.append(row)
 
     rl = {}
-    for key, run in (("full", "wordle-rl"), ("lora", "wordle-rl-lora")):
-        pts = train_curve(out / run) if out and (out / run).exists() else []
+    for key, run in (("full", "wordle-rl"), ("lora", "wordle-rl-lora"), ("turns", "wordle-rl-turns")):
+        d = run_dir(art, run) if art else None
+        pts = train_curve(d) if d and d.exists() else []
         rl[key] = {"curve": [[s, round(v, 4)] for s, v in pts], "steps": STEPS,
-                   "hours": round(run_hours(out / run) or 0, 2) if pts else None}
+                   "hours": round(run_hours(d) or 0, 2) if pts else None}
 
     split = json.loads((ROOT / "configs" / "heldout_split.json").read_text())
     data = {

diff --git a/notes/REPORT.md b/notes/REPORT.md
@@ -14,8 +14,38 @@ win rates are **40.5% and 42.5%**. Average reward rose from 0.17 to 0.43–0.47 
 | + SFT warmup (20 steps) | 2.5% (0–6) | 12.5% (8–18) | 0.30 / 0.40 | 4.08 | 13.9% | 0.16 |
 | + RL, full fine-tune (200 steps) | 15.0% (10–20) | **40.5%** (28–53) | 0.43 / 0.66 | 4.27 | 9.4% | 7.44 |
 | + RL, LoRA r32 (200 steps) | **21.0%** (12–31) | **42.5%** (30–55) | 0.47 / 0.65 | 4.16 | 11.0% | 9.56 |
+| + RL, per-turn credit (200 steps) | 17.0% (10–24) | 41.5% (28–56) | 0.45 / 0.64 | 4.53 | 2.4% | 4.94 |
 
 95% intervals resample the 20 eval games. Full tables: `results/results.md`. Plots: `results/plots/`.
+
+## Run 2: per-turn credit (the main bet from notes/IDEAS.md)
+
+**Setup.** A new `wordle-turns` env scores every turn:
+- information gain over the 156-word list;
+- penalties for rejected moves, turns cut off at the token limit, thinking past 768 tokens, and guesses that contradict earlier clues;
+- a win reward scaled by speed.
+
+A small prime-rl patch (`turn_grpo`) gives each turn's tokens its own advantage: the GRPO outcome advantage plus discounted per-turn credit. The SFT recipe and the 200 full-fine-tune RL steps are otherwise the same as the baseline.
+
+**Results** (thinking removed, 200 held-out games):
+
+| | Baseline full RL | Per-turn credit |
+|---|---|---|
+| Win rate | 40.5% | 41.5% |
+| Turns cut off at 1,024 tokens | 15% | **1.4%** |
+| Format errors per turn | 22.5% | **9.1%** |
+| Games lost to invalid moves | 88 | **39** |
+| Games lost after all 6 guesses | 31 | 78 |
+| Guesses consistent with earlier clues | 54% | 47% |
+| Guesses that could still be the answer | 14% | 12% |
+
+**Takeaway.** The cut-off and validity fixes worked. Run 2 also trained about 30% faster, because thinking got shorter. The win rate did not move: the games it rescued now run out of guesses, because the model uses its clues *worse*. The information-gain bonus pays for exploratory guesses that cannot be the answer, and the clue-violation penalty is too weak to offset it.
+
+**Next run (run 3):**
+- Lower the information weight to about 0.1.
+- Raise the clue-violation penalty to about 0.5, and lower the turn weight to about 0.3, so that winning with consistent guesses dominates.
+- Add the clue-state summary to observations (idea 3 in IDEAS.md).
+- Train longer; the reward was still rising at step 200.
 
 ## Success criteria
 

diff --git a/README.md b/README.md
@@ -16,6 +16,7 @@ SFT warmup plus RL with [prime-rl](https://github.com/PrimeIntellect-ai/prime-rl
 | + SFT warmup | 2.5% | 12.5% | 0.30 / 0.40 |
 | + RL, full fine-tune | 15.0% (10–20) | **40.5%** (28–53) | 0.43 / 0.66 |
 | + RL, LoRA r32 | **21.0%** (12–31) | **42.5%** (30–55) | 0.47 / 0.65 |
+| + RL, per-turn credit (run 2) | 17.0% (10–24) | 41.5% (28–56) | 0.45 / 0.64 |
 
 ![RL training reward](results/plots/train_reward.png)
 
@@ -34,7 +35,8 @@ Full tables: [results/results.md](results/results.md). One-page summary: [notes/
 3. **No memorization.** RL models do no better on training words than on held-out words.
 4. **LoRA matched full fine-tuning** step for step, using 9 GiB of trainer memory instead of 30.
 5. **Main remaining failure:** about 1 turn in 5 runs out of the 1,024-token budget mid-thought.
-6. **Turns-to-solve didn't drop** (about 4.1–4.3 guesses per win after SFT and after RL).
+6. **Turns-to-solve didn't drop** (about 4.1–4.5 guesses per win after SFT and after RL).
+7. **Per-turn credit fixed validity, not wins.** Cut-off turns fell from 15% to 1.4% and invalid-move losses from 88 to 39 of 200, but the win rate held at about 41%: the model now runs out of guesses because its information-gain bonus favors exploratory guesses over consistent ones ([notes/REPORT.md](notes/REPORT.md)).
 
 ## Training schedule
 

diff --git a/notes/IDEAS.md b/notes/IDEAS.md
@@ -57,6 +57,8 @@ When the model guesses, a median of 3 of the 156 secret words are still possible
 - Keep the shaping bounded and smaller than the win term; summing per-guess rewards gave AWS's lost games positive reward.
 - Information gain alone can favour a non-candidate guess late in the game.
 
+**Result of run 2 (ideas 1 and 2 implemented).** Cut-off turns fell from 15% to 1.4%, and games lost to invalid moves from 88 to 39 out of 200. The held-out win rate did not move (40.5% → 41.5%): the rescued games now run out of guesses, because clue consistency fell from 54% to 47%. The information-gain weight is too high relative to the clue-violation penalty. Re-weight and add idea 3. Details in REPORT.md.
+
 ### 2. Stop the cut-off turns
 
 - **If 1,024 tokens per turn is fixed:** train Elastic-style. Cap thinking at about 900 tokens, force `</think>`, then allow about 100 answer tokens, and leave the forced tokens out of the loss. Source: https://arxiv.org/abs/2505.05315

diff --git a/results/results.md b/results/results.md
@@ -9,6 +9,7 @@ never seen in SFT or RL) × 10 rollouts = 200 games, temperature 1.0, 1024 token
 | + SFT warmup | 2.5% (0–6%) | 0.30 | 5.11 | 4.20 | 13.9% | 0.16 |
 | + SFT + RL (full) | 15.0% (10–20%) | 0.43 | 5.83 | 4.47 | 9.4% | 7.44 |
 | + SFT + RL (LoRA r32) | 21.0% (12–31%) | 0.47 | 6.02 | 4.38 | 11.0% | 9.56 |
+| + SFT + RL (per-turn credit) | 17.0% (10–24%) | 0.45 | 6.96 | 4.32 | 2.4% | 4.94 |
 
 ### Same eval with reasoning stripped (diagnostic)
 
@@ -22,6 +23,7 @@ eval passes the raw text, and the game plays the first bracketed word, often a g
 | + SFT warmup | 12.5% (8–18%) | 0.40 | 5.31 | 4.08 | 31.2% |
 | + SFT + RL (full) | 40.5% (28–53%) | 0.66 | 5.78 | 4.27 | 22.5% |
 | + SFT + RL (LoRA r32) | 42.5% (30–55%) | 0.65 | 5.53 | 4.16 | 22.8% |
+| + SFT + RL (per-turn credit) | 41.5% (28–56%) | 0.64 | 5.88 | 4.53 | 9.1% |
 
 ### Held-out vs training words (diagnostic)
 
